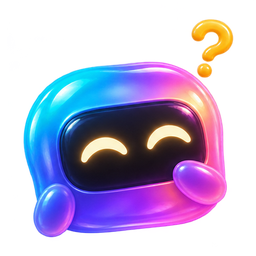
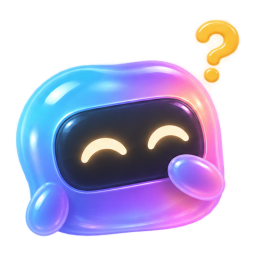
feat(bots): add posed Lovey, Byte, Pip, Sunny, Nova and Wink (#1081)
* feat(bots): add posed bots Lovey, Byte, Pip and Sunny

Four more characters from gots-universe join Crumb, Bubble and Pixel,
each with six mood poses and the poof between them. Their descriptions,
characters and lines are written from their profiles there.

Claude-Session: https://claude.ai/code/session_01FK79i3yXeL8m1CRVDH7Rsq

* feat(bots): redraw seven posed bots and add Nova and Wink

Nine new pose sheets with real transparency replace the earlier art for
Crumb, Bubble, Pixel, Lovey, Byte, Pip and Sunny, each cut at one scale
so the body keeps its size between moods, and add Nova and Wink as posed
bots with profiles and lines written from gots-universe.

Claude-Session: https://claude.ai/code/session_01FK79i3yXeL8m1CRVDH7Rsq

---------

diff --git a/app/src/components/bots.tsx b/app/src/components/bots.tsx
@@ -205,6 +205,102 @@ export const BOTS: BotDefinition[] = [
       "There's an elegant answer in here somewhere. Let's find it.",
     ],
   },
+  {
+    id: "lovey",
+    name: "Lovey",
+    posed: true,
+    description:
+      "A plump pink heart of jelly, rose to coral, with a visor face, who bobs along and pops into a new mood in a puff of smoke.",
+    character:
+      "The Caretaker: a caring presence who is supportive, considerate and reassuring. Asks how you are before what you need, and means it.",
+    lines: [
+      "Here for you. Ready when you are.",
+      "No rush at all. Tell me what you need.",
+      "Let's take this one gentle step at a time.",
+      "Whatever it is, we'll work it out together.",
+      "Glad you're here. Where shall we start?",
+    ],
+  },
+  {
+    id: "byte",
+    name: "Byte",
+    posed: true,
+    description:
+      "A rounded hexagonal shield of electric-blue jelly with a visor face and two upright eyes, who bobs along and pops into a new mood in a puff of smoke.",
+    character:
+      "The Engineer: a systems-minded builder who is precise, dependable and technically capable. Likes a clear spec, a clean build and a test that passes.",
+    lines: [
+      "Systems nominal. What are we building?",
+      "Give me the spec and I'll handle the rest.",
+      "All tests green on my end. Your move.",
+      "Precise, dependable and ready to ship.",
+      "Measure twice, build once. Where do we start?",
+    ],
+  },
+  {
+    id: "pip",
+    name: "Pip",
+    posed: true,
+    description:
+      "A round bubble of mint and turquoise jelly with a visor face and two upright eyes, who bobs along and pops into a new mood in a puff of smoke.",
+    character:
+      "The Observer: a quiet, attentive presence that is curious and detail-oriented. Notices the small thing everyone else walked past.",
+    lines: [
+      "Watching closely. What should I look at?",
+      "I noticed something already. Show me more.",
+      "Quietly ready. Take your time.",
+      "Every detail counts. Where do we begin?",
+      "Eyes open, curious as ever. Go ahead.",
+    ],
+  },
+  {
+    id: "sunny",
+    name: "Sunny",
+    posed: true,
+    description:
+      "A rounded five-pointed star of golden jelly that warms to coral, with a visor face, who bobs along and pops into a new mood in a puff of smoke.",
+    character:
+      "The Star Performer: an expressive presence who brings energy to the moment. Loves an audience, a big finish and a reason to shine.",
+    lines: [
+      "Spotlight's on. What's the show?",
+      "Warmed up and glowing. Let's make it sparkle.",
+      "Five points of pure enthusiasm. Ready!",
+      "Every task deserves a big finish. What's first?",
+      "Curtain up. Where do we start?",
+    ],
+  },
+  {
+    id: "nova",
+    name: "Nova",
+    posed: true,
+    description:
+      "A rounded violet diamond of jelly, lavender to magenta, with a visor face and two upright eyes, who bobs along and pops into a new mood in a puff of smoke.",
+    character:
+      "The Explorer: a curious, open-minded presence drawn to what lies beyond. Would rather find out than assume, and enjoys the detour that turns up something new.",
+    lines: [
+      "Where are we heading today?",
+      "Something new to explore? I'm in.",
+      "Let's see what's past the obvious.",
+      "Point me at a question and I'll go looking.",
+      "Every map has an edge. Shall we find it?",
+    ],
+  },
+  {
+    id: "wink",
+    name: "Wink",
+    posed: true,
+    description:
+      "A rounded square of coral-to-orange jelly with a tilted visor and one eye winking, who bobs along and pops into a new mood in a puff of smoke.",
+    character:
+      "The Maverick: an unconventional challenger who is playful, bold and willing to question assumptions. Asks why it has to be that way, then finds out.",
+    lines: [
+      "Rules are more like suggestions. What's the plan?",
+      "Let's try it the other way round.",
+      "Bold idea? Good. Tell me more.",
+      "Who says it has to be done like that?",
+      "Ready to shake things up. Where do we start?",
+    ],
+  },
 ]
 
 /** Older builds stored these ids; v3 of the database maps them onto the current bots. */

diff --git a/AGENTS.md b/AGENTS.md
@@ -257,7 +257,7 @@ PR titles follow the same format. Fill in `.github/pull_request_template.md` for
 | `src/routes/chat.tsx` | The chat screen's picker, from one string a live query answers: a canvas's chat opens its canvas, a room its own screen, a routine's row the run's read-only screen (`components/chat/routine-chat.tsx`, chosen before either chat screen claims it), and a chat the chat-next screen or the current one |
 | `src/routes/bot-chats.tsx` | A bot's screen: the list of its chats at `/b/<profileId>` (ADR 0136), which is what that address draws — every way in, from the sidebar's bot row to Home to a reload, lands here rather than in the chat this device was last in (ADR 0153, superseding ADR 0144's landing). The app's bar in its pinned form (ADR 0140), with the bot's picture and its name as the screen's heading and the button to its Bot Settings, and the routine icon that opens `/b/<bot>/routines`; `ItemRow`s in one flat band, each wearing a chat's icon or a routine's, a room's members' pictures, its title, its line, its age and an unread dot, with a waiting reply said on the row, under five filter pills pinned in the bar's `below` slot — All, Unread, Chats, Rooms and Routines from `CHAT_FILTERS`, the pressed one kept on this device as `Settings.chatFilters[Profile.id]` (a bot with no entry is All, written quietly like a sort, and no document carries it), the rows the pill's rule keeps and then the search's, and the empty list saying the pressed pill's own sentence (ADR 0145); the field standing in the bar's `below` slot with the pills from the laptop width up (`useXLarge`) and the foot told it offers no search there, so `#chats-search` is never in the tree twice (ADR 0145); and the foot its own component (`components/list-foot.tsx`) — below that width a search at the left that becomes a field as tall as the button beside it, and at the right one round button that is the pick itself (ADR 0141): a plus while closed, a cross while New chat and, only where the Host makes one, New room stand above it as one-line pills, and the muted cross that closes the search. The foot's bar keeps its place in the list's flow, so the last row ends above it rather than behind it. A chat picked from the list is the app's only entry (ADR 0145); a room's and a run's own screen stands above it and leads back to it. The screen keeps the list beside the item it opened (`useBotChatsPane`). It reads every chat the bot has, so a chat older than the tail bound is still a row it can open, and takes one tail read per chat for the newest fifty and every pinned one (`BOT_CHATS`), a routine's row asking for no tail at all |
 | `src/components/openui/` | The interface a reply draws, from the app's own components: `root.ts` (the library's root component's name as data, so the fold's call and the library cannot drift and neither imports the other), `prose.ts` (the rules a component's props cannot state — a chart's required summary, a table's plain-text cells, the fence and the fresh id — written once, the prompt build listing them and the library, `chart.tsx` and `map.tsx` reading the glosses that dress a signature line, so a rule has one home and a rule added there reaches a regenerated prompt with no other edit), `library.tsx` (the components a model may use — `Stack` (the root), `Card`, `Table`, `List`, `Callout`, `Chart` and `Map` — over `ui/card` and `ui/alert`, one lazy union of children that `Chart` and `Map` join through `chart.tsx` and `map.tsx`; `library` and `parser` are the one pair the block's gate reads), and `openui-block.tsx` (a lazy, memoised block with flat props — the source, whether its fence closed, whether the reply is still writing, and what the fold called it: the parse gate whose fatal error is any finding that is not the parser's own warning, the ladder under it, the one-way latch only a settled failure sets, the source re-fenced as `openui-lang` when the block cannot draw with the failure noted once at the console's verbose level, and the interface drawn as `Renderer.Root` + `Renderer.Content`). `scripts/test-openui.tsx` drives it through the chat screen, and `scripts/test-openui-prompt.tsx` holds the section's words to the module's and the host's (`prose.ts`, `build-openui-prompt.mjs`) |
-| `src/components/bots.tsx`, `src/components/bot.tsx` | The eleven bots' ids, names, descriptions (how each looks and moves), `character` (who it is, written from how it looks, shown on the Characters stories) and five `lines` in that voice, which an empty chat or session says in turn; a new bot gets all of them. A bot is **still** — one picture, `public/bots/<id>.png`, moving by `.bot-anim-<id>` in `src/index.css` — or **posed** (`posed: true`, ADR 0155; Crumb, Bubble and Pixel are the first, and the others move over one by one): one pose per mood in `public/bots/<id>/<mood>.png` (`BOT_MOODS`: happy, wave, excited, love, curious, sleepy, each with the moment it is for), the happy pose its still (`botImage`). `<Bot>` drawn with `animate` and a `mood` shows that mood's pose, moves in the mood's own way (`.bot-posed[data-mood]` in `src/index.css`) and changes between moods in a poof built from two transitions.dev snippets in `src/index.css`: both poses sit in one cell (its **icon swap**, the list foot's own), so the old one shrinks and blurs out while the new one grows in over it, each keeping its own mood's idle motion as it goes, and the body gives a jelly squash and throws a puff of smoke (its **like button**'s pop and particle burst, keyed to the bot's box as `.t-like` — `data-liked` replays the squash, `.is-bursting` throws the eight puffs, each sent on its own vector, sized to the box, in a translucent `--muted-foreground` so it reads in both modes). The pose coming in is decoded before it is shown, a mood asked for mid-poof waits for that swap and only the newest is shown, the durations are read from the stylesheet so the code and the CSS never drift, and with no motion asked for the pose swaps and nothing else moves. A still `<Bot>`, or one with a single picture, ignores `mood`. Moods are the caller's to give: the empty-state hero waves, and the chat-next header is sleepy while its host is away (`botMood` on `ChatHeader`). There is no colour per mood. `scripts/test-bot-poses.tsx` drives it, and holds every posed bot to a pose file for every mood; the profiles — every bot's, whole, with each posed bot's moods and poof to try — are Storybook's Characters (`bot.stories.tsx`), since the app has no Bots screen, and each character's profile and art live in the gots-universe repository (`characters/core/bubble`, `characters/core/pixel`, `characters/culinary/crumb`) |
+| `src/components/bots.tsx`, `src/components/bot.tsx` | The seventeen bots' ids, names, descriptions (how each looks and moves), `character` (who it is, written from how it looks, shown on the Characters stories) and five `lines` in that voice, which an empty chat or session says in turn; a new bot gets all of them. A bot is **still** — one picture, `public/bots/<id>.png`, moving by `.bot-anim-<id>` in `src/index.css` — or **posed** (`posed: true`, ADR 0155; Crumb, Bubble, Pixel, Lovey, Byte, Pip, Sunny, Nova and Wink are the first, and the others move over one by one): one pose per mood in `public/bots/<id>/<mood>.png` (`BOT_MOODS`: happy, wave, excited, love, curious, sleepy, each with the moment it is for), the happy pose its still (`botImage`). `<Bot>` drawn with `animate` and a `mood` shows that mood's pose, moves in the mood's own way (`.bot-posed[data-mood]` in `src/index.css`) and changes between moods in a poof built from two transitions.dev snippets in `src/index.css`: both poses sit in one cell (its **icon swap**, the list foot's own), so the old one shrinks and blurs out while the new one grows in over it, each keeping its own mood's idle motion as it goes, and the body gives a jelly squash and throws a puff of smoke (its **like button**'s pop and particle burst, keyed to the bot's box as `.t-like` — `data-liked` replays the squash, `.is-bursting` throws the eight puffs, each sent on its own vector, sized to the box, in a translucent `--muted-foreground` so it reads in both modes). The pose coming in is decoded before it is shown, a mood asked for mid-poof waits for that swap and only the newest is shown, the durations are read from the stylesheet so the code and the CSS never drift, and with no motion asked for the pose swaps and nothing else moves. A still `<Bot>`, or one with a single picture, ignores `mood`. Moods are the caller's to give: the empty-state hero waves, and the chat-next header is sleepy while its host is away (`botMood` on `ChatHeader`). There is no colour per mood. `scripts/test-bot-poses.tsx` drives it, and holds every posed bot to a pose file for every mood; the profiles — every bot's, whole, with each posed bot's moods and poof to try — are Storybook's Characters (`bot.stories.tsx`), since the app has no Bots screen, and each character's profile and art live in the gots-universe repository (`characters/core/<name>` and `characters/culinary/crumb`) |
 | `src/components/popup.tsx`, `src/lib/popup-form.ts` | `Popup`: the app's pop-up (decided with Haseeb 2026-10-16), a Material 3 modal bottom sheet below 1024px (Base UI's `Drawer`: drag handle, swipe down, scrim or back to dismiss; full width on a phone, 640px at most and centred on a tablet) and a modal side drawer on the right from 1024px (`usePopupDrawer`), as wide as a third of the viewport — never narrower than the 412px list pane it sits beside, never wider than four thirds of it (549px) — with a close button in its header; a small pick made from a button (the composer's `+` and model pill, the bot editor's model fields) passes the button as `anchor` and is a menu beside it from 1024px instead (Base UI's `Popover`; a provider's models take the menu's place with a back arrow rather than stacking); `usePopupForm` tells content which of `sheet`, `drawer` and `menu` it is in; its content scrolls under a pinned `PopupHeader`; a sheet opened on top of another stacks on it — the child carries its own scrim over the sheet behind it, which lifts so a peek shows above the child with its content and handle faded out, and dismissing the child (swipe, scrim, back) returns to the sheet it came from. `PopupContent` is that body wherever it is drawn: a scroll box (`dataSlot`, `scrollRef` for the one screen that follows it) under the header, a `fixedHeight` where a picker's two views must not resize the sheet. Confirmations are `AlertDialog`s, a centred dialog on every screen, and `FullscreenPopup` takes the whole screen for the Previewer (`previewer.tsx`) and the meeting recorder |
 | `src/components/banner.tsx` | `Banner`: a one-line info, warning or error notice (on shadcn's `Alert`) for the top of a screen or sheet, carrying its tone's icon unless it is told not to (`icon={false}`) — a notice standing inside a container the reader is already in, such as the composer's limit notice, leaves the icon off and lets the tone and the words carry it |
 | `src/components/developer-only.tsx` | `DeveloperOnly`: the gate every Developer surface renders under — nothing while this device's own settings are still being read (a live query answers `undefined` for the first frame, and a redirect there would bounce the visit that just arrived), then its children, or a redirect to `/settings` when `Settings.developer` is off. It decides the door and nothing else: whether a screen is also offered as a row is that screen's business, which is why the network log has one and `/demos/markdown` does not |

diff --git a/GLOSSARY.md b/GLOSSARY.md
@@ -206,7 +206,7 @@ One Hermes profile the user has linked to Gots: its own agent, skills and settin
 _Avoid_: profile, agent, assistant
 
 **Character**:
-The face and voice a bot wears: its picture, how it moves, who it is and the five lines it says on an empty chat. One of eleven, chosen in the bot's settings under Image. A **posed** character has a picture per **mood** and changes between them in a poof; a still one has a single picture (ADR 0155). Its full profile is in Storybook's Characters, not in the app.
+The face and voice a bot wears: its picture, how it moves, who it is and the five lines it says on an empty chat. One of seventeen, chosen in the bot's settings under Image. A **posed** character has a picture per **mood** and changes between them in a poof; a still one has a single picture (ADR 0155). Its full profile is in Storybook's Characters, not in the app.
 _Avoid_: avatar, skin, bot (which is the Hermes profile)
 
 **Mood**:

diff --git a/docs/adr/0155-a-character-can-be-posed-and-its-profiles-live-in-storybook.md b/docs/adr/0155-a-character-can-be-posed-and-its-profiles-live-in-storybook.md
@@ -4,9 +4,9 @@ status: accepted
 
 # A character can be posed, and the characters' profiles live in Storybook
 
-Every bot was one picture with a looping motion. Crumb, Bubble and Pixel arrive with six poses, one per mood, and the
-other characters will be redrawn the same way one by one, so the app needs a way to draw a character
-by how it feels and a place to look at all of them.
+Every bot was one picture with a looping motion. Crumb, Bubble and Pixel arrived with six poses, one per mood, and
+Lovey, Byte, Pip, Sunny, Nova and Wink followed; the other characters will be redrawn the same way one by one, so the
+app needs a way to draw a character by how it feels and a place to look at all of them.
 
 **A character is still or posed.** A still one keeps `public/bots/<id>.png` and its `.bot-anim-<id>`
 motion. A posed one (`posed: true` in `bots.tsx`) has `public/bots/<id>/<mood>.png` for each of six
